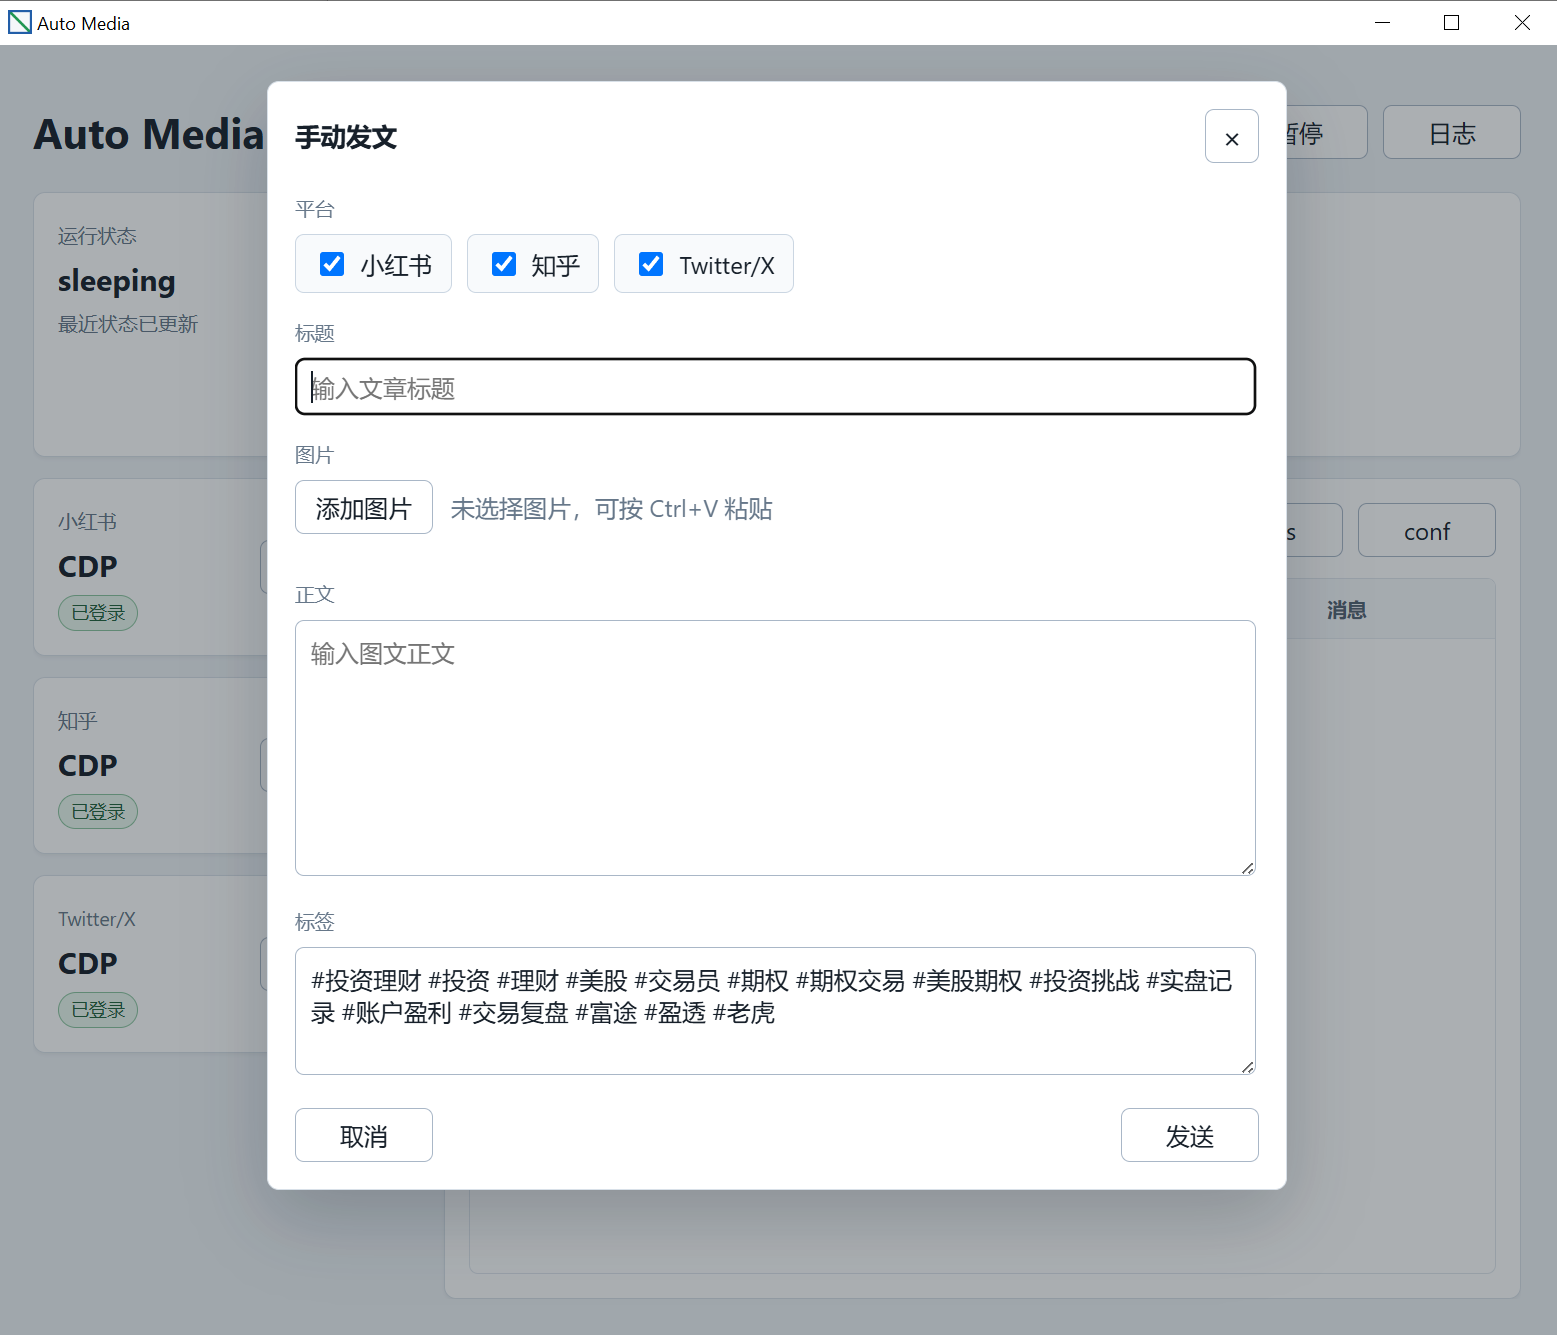
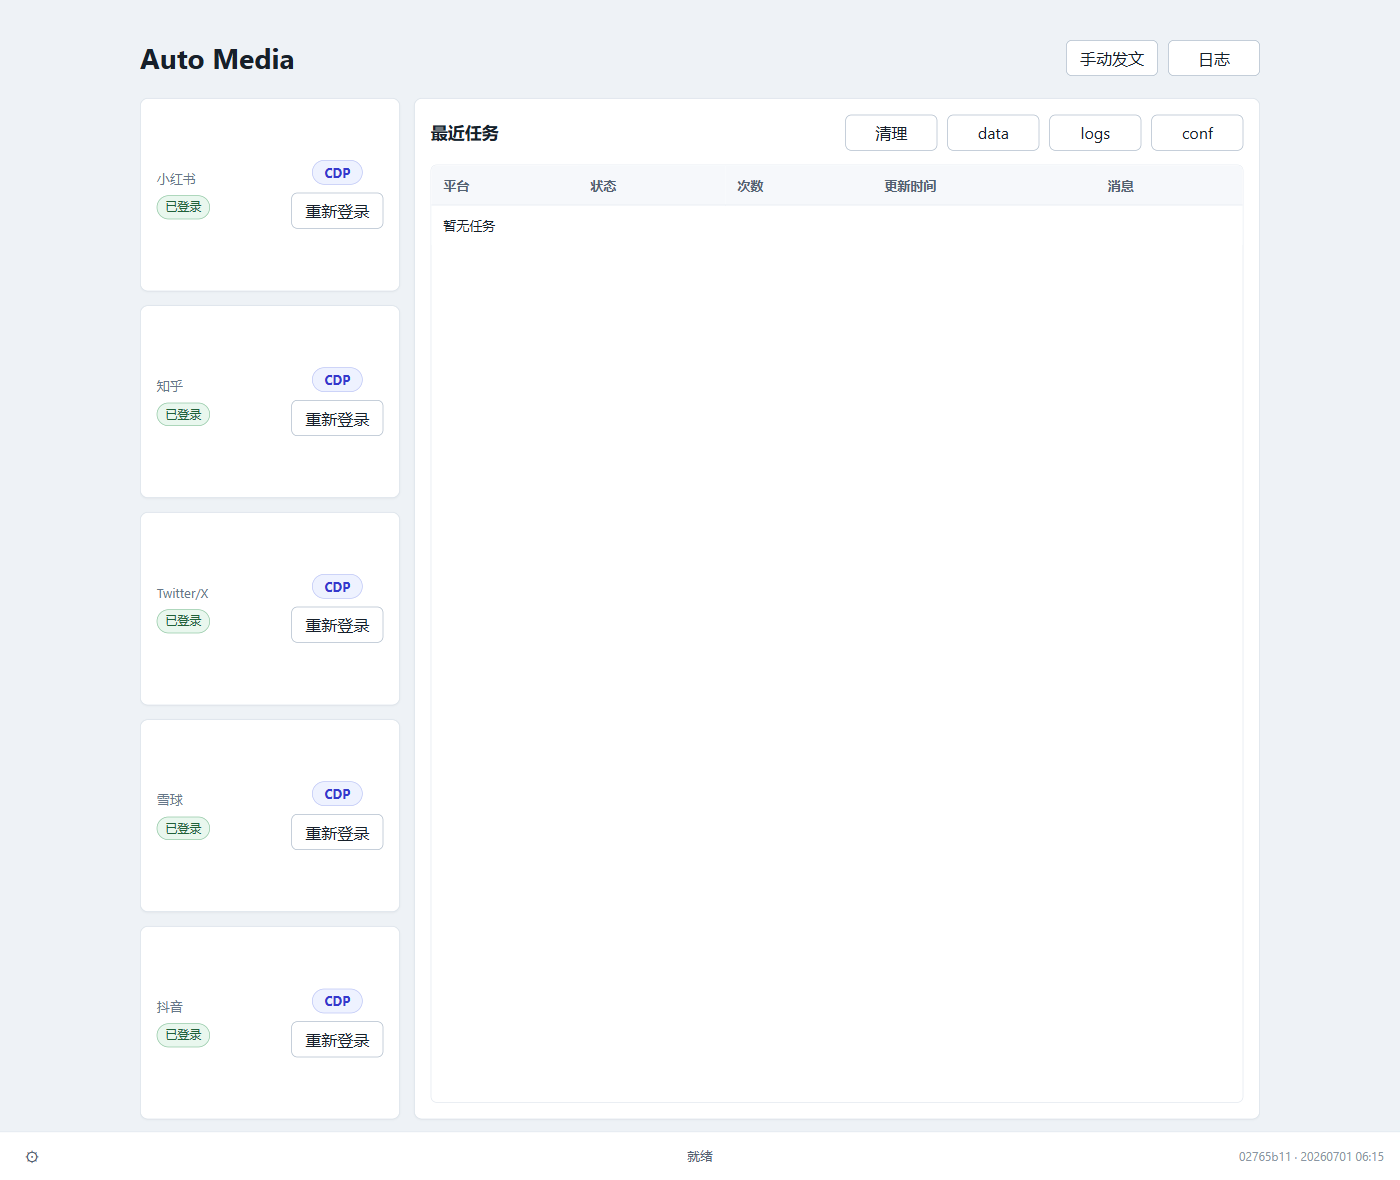
README: add Chinese intro and refresh screenshot
Add a 简介 section describing the five-platform CDP-first publishing,
real topics, shared browser, watermark, and manual publish. Update build
steps to the deploy script and refresh docs/ScreenShot.png to the current
five-platform UI.

diff --git a/README.md b/README.md
@@ -2,27 +2,44 @@
 
 Rust + Tauri 桌面自动发布工具。详细方案见 `system_design.md`。
 
+## 简介
+
+Auto Media 是一个运行在 Windows 上的桌面应用,用来把每天的一张图片 + 文案一键发布到五大社媒平台:**小红书、知乎、Twitter/X、雪球、抖音**。
+
+- **CDP 优先,API 兜底**:每个平台都有「浏览器自动化(CDP)」和「HTTP API」两套后端,默认走 CDP 真实操作(更像真人、降低风控),失败再回退 API。
+- **真实话题**:按配置的 tags 在各平台选择真实的话题标签(而非纯文本 `#xxx`),小红书正文不残留无效标签。
+- **共享单浏览器**:所有平台共用一个 Chrome profile、单窗口多标签顺序发布;发布完成后自动关闭,遇到短信/验证码会保留窗口等你完成验证。
+- **图片水印**:发布前自动给图片右下角加水印,可在配置里按平台开关和自定义文本(知乎/雪球/Twitter 用站点链接,小红书/抖音用纯品牌词以降低站外引流风险)。
+- **手动发文**:可手动选图、填标题/正文/标签、勾选目标平台(选择会被持久化),点击图片可预览「加好水印后的发布效果」。
+
 ![screenshot](docs/ScreenShot.png)
 
 ## 目录
 
 - `src`: Rust/Tauri 源码和静态前端。
-- `bin`: release 二进制输出目录。
+- `bin`: release 二进制输出目录,应用固定从这里启动。
 - `conf`: 配置、状态库、认证状态和浏览器 profile。
 - `data`: 待发布图片目录。
 - `logs`: 运行日志目录。
 
-## 构建
+## 构建与启动
+
+应用统一从 `bin\auto_media.exe` 启动。用部署脚本一键构建(release)+ 部署到 `bin` + 启动:
+
+```powershell
+pwsh scripts\deploy.ps1            # 构建 release 并拷贝到 bin\auto_media.exe
+pwsh scripts\deploy.ps1 -Launch    # 顺带从 bin 启动
+```
+
+构建/测试:
 
 ```powershell
 cargo check
 cargo test
-cargo build --release
-Copy-Item target\release\auto_media.exe bin\auto_media.exe -Force
 ```
 
-## 当前进度
+## 功能进度
 
-- 已实现 Tauri GUI、系统托盘、开机自启动注册、配置加载、日志、SQLite 状态库、10 分钟调度、20:00 后跳过扫描、前一天图片扫描、防重复发布状态。
-- 小红书和知乎都已接入 CDP 浏览器启动骨架，使用独立浏览器 profile 打开登录页和发布页。
-- 平台页面的选择器级自动填充、上传和点击发布仍集中在 `src/platforms/cdp_adapter.rs` 中继续深化。
+- Tauri GUI、系统托盘、开机自启动、配置加载、日志、SQLite 状态库、防重复发布。
+- 五大平台(小红书 / 知乎 / Twitter-X / 雪球 / 抖音)均已接入 CDP 图文发布 + 真实话题 + API 回退,统一在 `src/platforms/{platform}_cdp.rs` / `{platform}_api.rs` 中维护。
+- 发布前图片水印、手动发文平台持久化、每平台 CDP/API 切换、发布后自动关闭浏览器(验证场景保留窗口)。